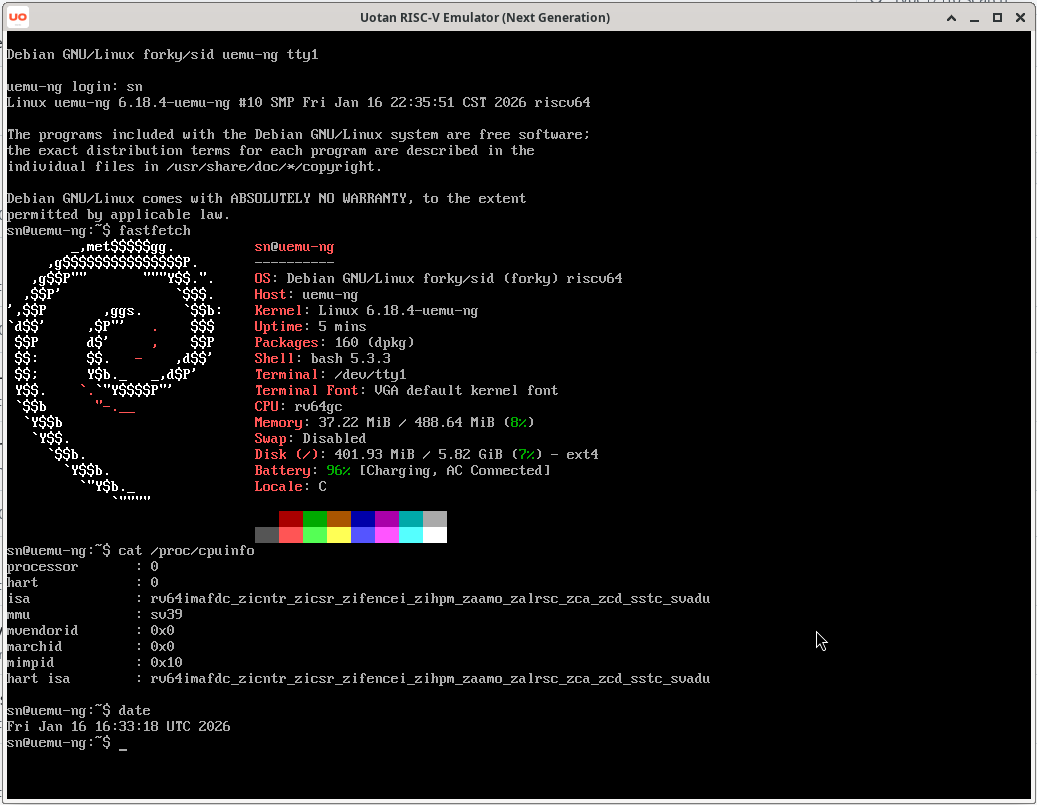
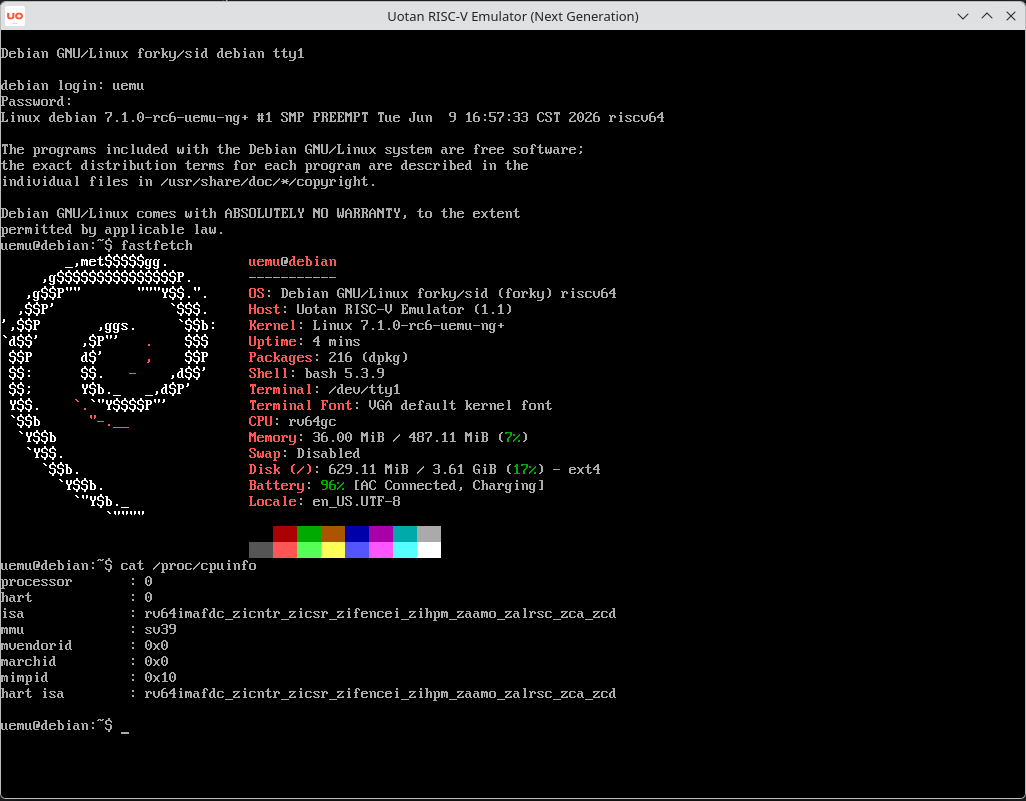
docs: update boot screenshots and build dependencies
- Replace single EDK2 screenshot with side-by-side boot + UIApp images
- Update Debian boot screenshot, remove Alpine section
- List SDL3_image as required dependency

Changed region(s): [[0.0, 0.0, 1.0, 1.0], [0.7797, 0.7803, 0.8109, 0.8115], [0.655, 0.8427, 0.6862, 0.8739]]

diff --git a/README.md b/README.md
@@ -1,6 +1,11 @@
 # uemu-ng — tiny RISC-V system emulator
 
-![EDK2](./assets/edk2.png)
+<table>
+  <tr>
+    <td><img src="./assets/edk2_boot.png" alt="EDK II boot" width="100%"></td>
+    <td><img src="./assets/edk2_uiapp.png" alt="EDK II UIApp" width="100%"></td>
+  </tr>
+</table>
 
 **Uotan RISC-V Emulator - Next Generation** (*uemu-ng*) is a small rv64gc system emulator. It is a refactored version of [uemu](https://github.com/Uotan-Dev/uotan_riscv_emu). While **uemu** served as a proof-of-concept, the **NG** version focuses on strict architectural compliance and robust device emulation.
 
@@ -48,9 +53,7 @@ A UEFI firmware implementation (EDK2) for **uemu-ng** is available at [Uotan-Dev
 
 ## Boot Demo
 
-### [Alpine Linux v3.22](https://www.alpinelinux.org/)
-![Booting Alpine on uemu-ng](./assets/alpine.png)
-### [Debian forky](https://www.debian.org/)
+### [Debian](https://www.debian.org/)
 ![Booting Debian on uemu-ng](./assets/debian.png)
 
 ## Building
@@ -63,7 +66,7 @@ A UEFI firmware implementation (EDK2) for **uemu-ng** is available at [Uotan-Dev
 ### Required dependencies:
 
 * CLI11 - Command line parsing
-* SDL 3 - Graphics and windowing
+* SDL3 & SDL3_image - Graphics and windowing
 * `riscv64-unknown-elf-gcc`, `riscv64-unknown-elf-objcopy`, `riscv64-unknown-elf-objdump`
 
 ### Build Instructions